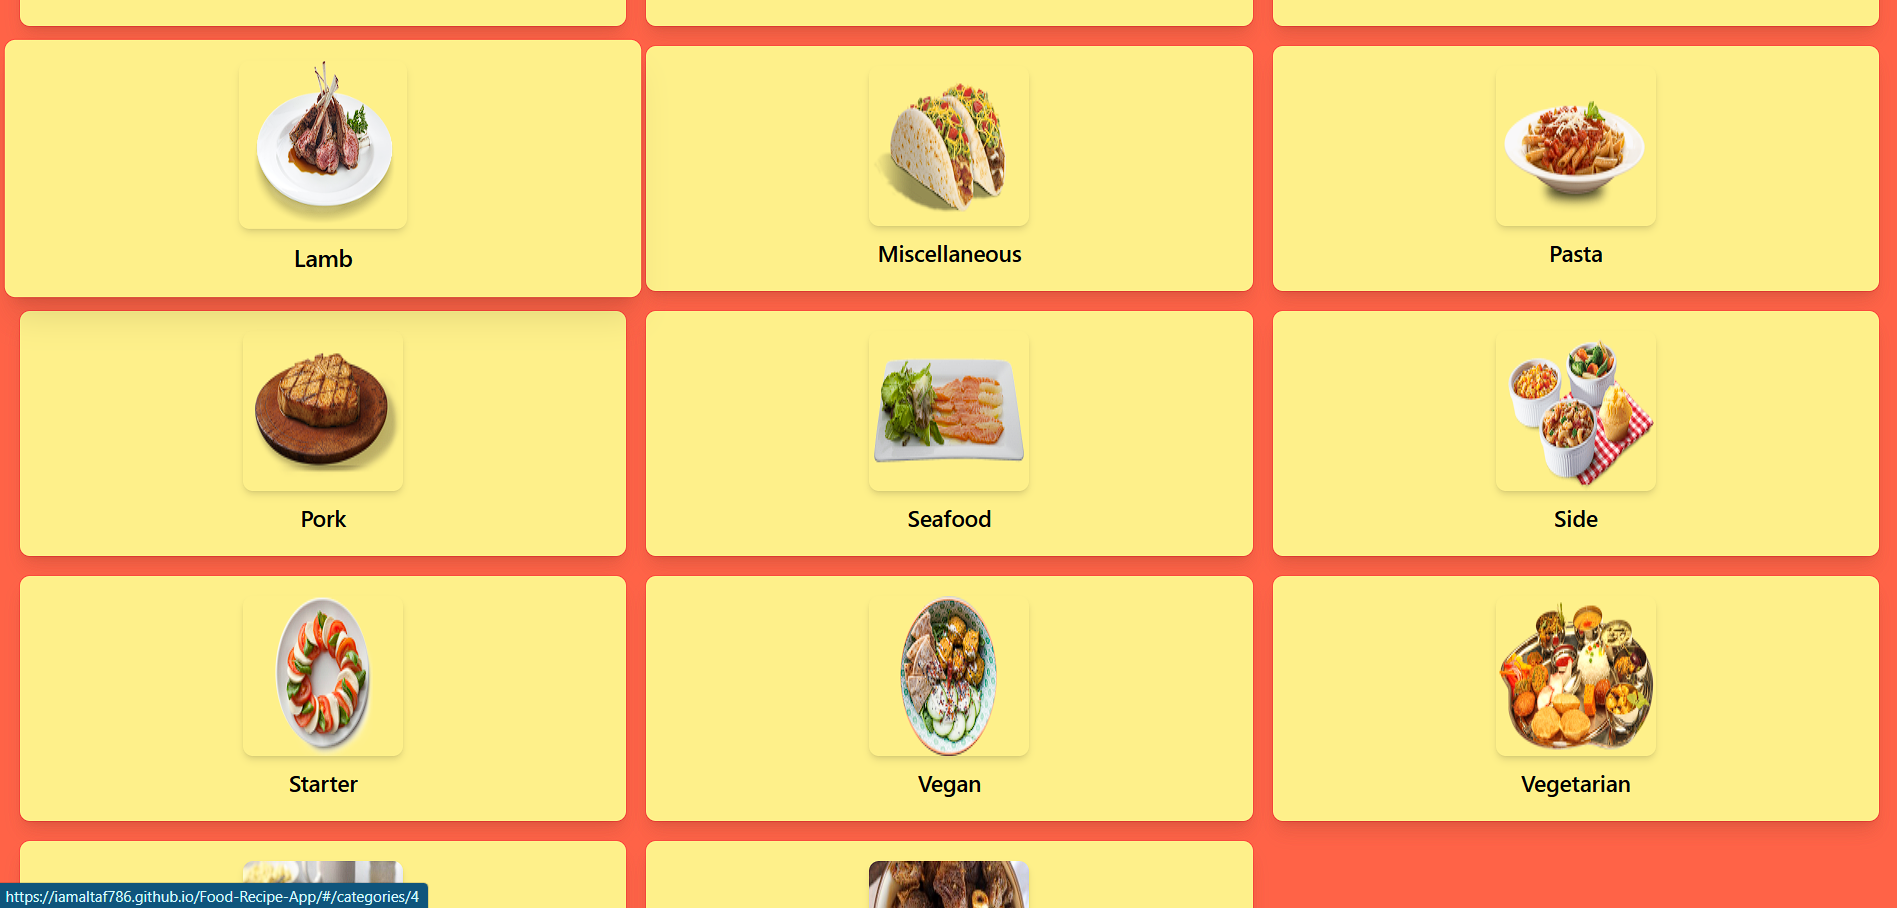
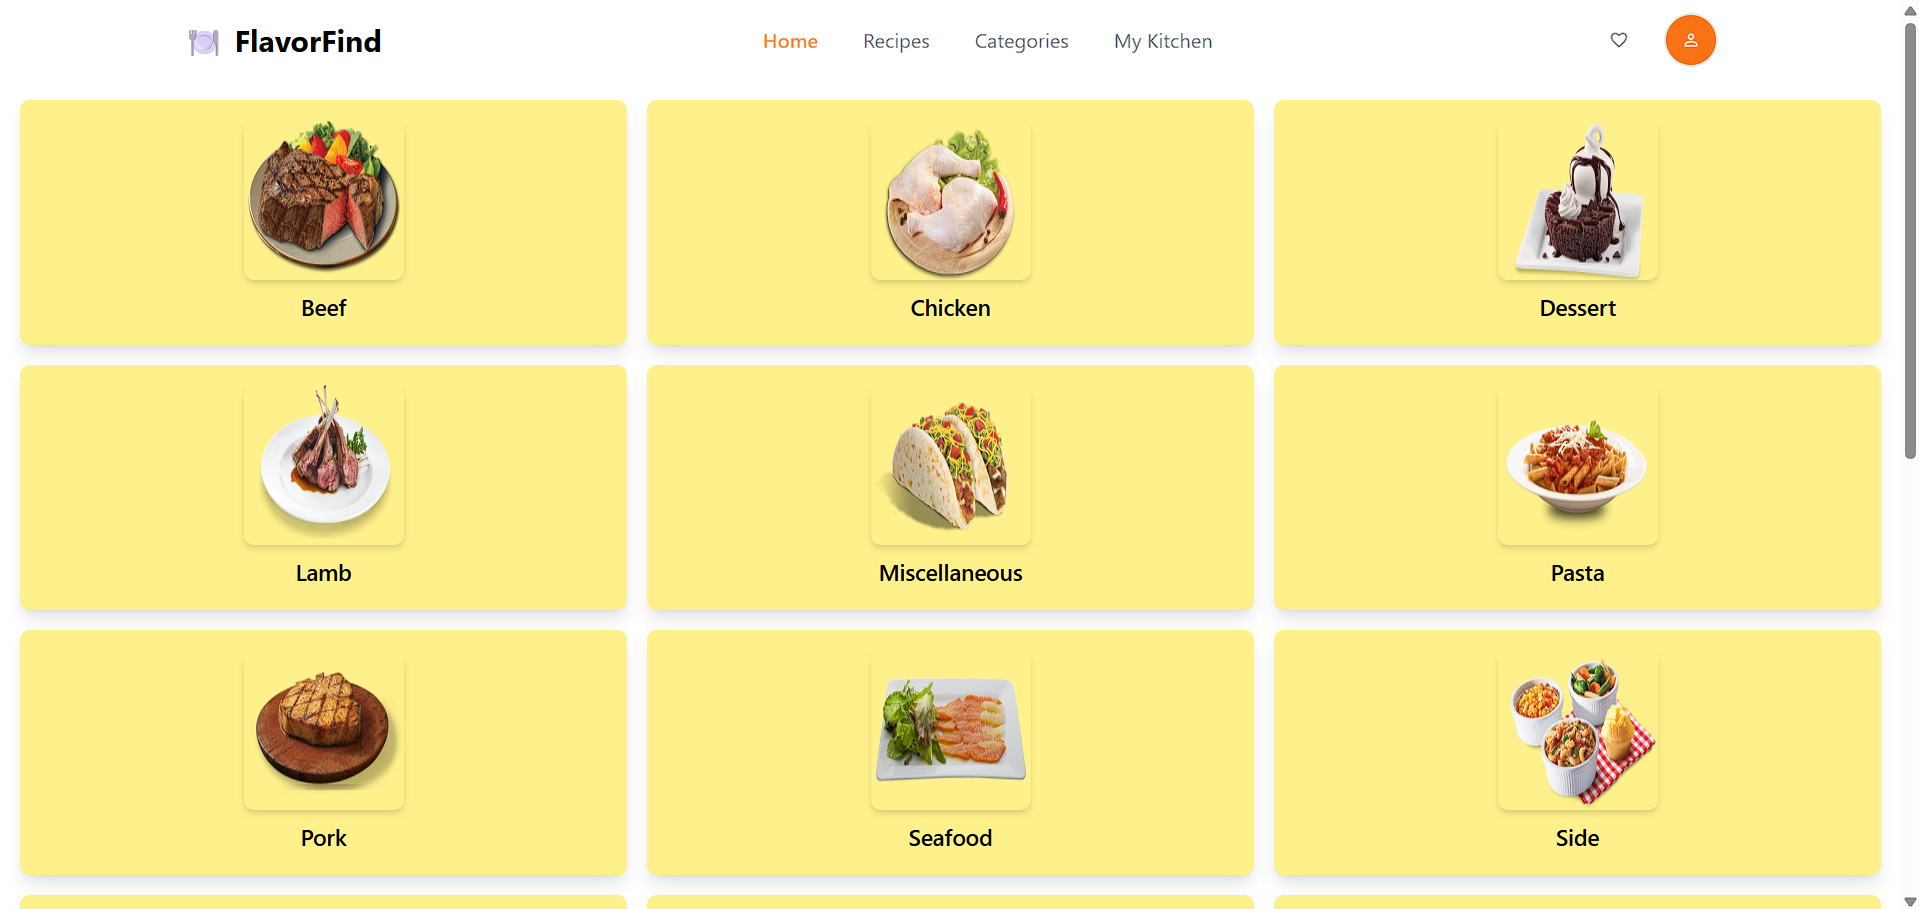
changed ui

diff --git a/src/component/CategoryDetail.jsx b/src/component/CategoryDetail.jsx
@@ -1,0 +1,83 @@
+import React, { useEffect, useState } from "react";
+import { useParams, NavLink } from "react-router-dom";
+
+function CategoryDetail() {
+  const { categoryid } = useParams();
+  const [meals, setMeals] = useState([]);
+  const [categoryName, setCategoryName] = useState("");
+  const [loading, setLoading] = useState(true);
+  const [error, setError] = useState(null);
+
+  useEffect(() => {
+    const fetchCategoryMeals = async () => {
+      try {
+        // Fetch all categories first to get the name of the category from the ID
+        const catRes = await fetch("https://www.themealdb.com/api/json/v1/1/categories.php");
+        const catData = await catRes.json();
+        const matchedCategory = catData.categories.find(
+          (cat) => cat.idCategory === categoryid
+        );
+
+        if (matchedCategory) {
+          setCategoryName(matchedCategory.strCategory);
+
+          // Now fetch meals for that category name
+          const res = await fetch(
+            `https://www.themealdb.com/api/json/v1/1/filter.php?c=${matchedCategory.strCategory}`
+          );
+          const data = await res.json();
+
+          if (data.meals) {
+            setMeals(data.meals);
+          } else {
+            setError("No meals found for this category.");
+          }
+        } else {
+          setError("Invalid category ID.");
+        }
+      } catch (err) {
+        console.error(err);
+        setError("Failed to fetch category details.");
+      } finally {
+        setLoading(false);
+      }
+    };
+
+    fetchCategoryMeals();
+  }, [categoryid]);
+
+  if (loading) return <div className="text-center p-6 text-gray-500">Loading meals...</div>;
+  if (error) return <div className="text-center text-red-500 p-6">{error}</div>;
+
+  return (
+    <div className="p-6">
+      <h2 className="text-2xl font-bold mb-6 text-center text-orange-600">
+        Meals in "{categoryName}" Category
+      </h2>
+      <div className="grid grid-cols-1 sm:grid-cols-2 md:grid-cols-3 gap-6">
+        {meals.map((meal) => (
+          <div
+            key={meal.idMeal}
+            className="bg-white shadow-md rounded-lg overflow-hidden hover:shadow-xl transition duration-300"
+          >
+            <img
+              src={meal.strMealThumb}
+              alt={meal.strMeal}
+              className="w-full h-48 object-cover"
+            />
+            <div className="p-4 text-center">
+              <h3 className="font-semibold text-lg mb-2">{meal.strMeal}</h3>
+              <NavLink to={`/Food-Recipe-App/meal/${meal.idMeal}`}>
+                <button className="bg-orange-500 text-white px-4 py-2 rounded-full hover:bg-orange-600 transition">
+                  View Recipe
+                </button>
+              </NavLink>
+            </div>
+          </div>
+        ))}
+      </div>
+    </div>
+  );
+}
+
+export default CategoryDetail;

diff --git a/src/component/Navbar.jsx b/src/component/Navbar.jsx
@@ -1,31 +1,38 @@
-import React from 'react'
-import { MdFavoriteBorder,MdPersonOutline } from "react-icons/md";
+import React from 'react';
+import { MdFavoriteBorder, MdPersonOutline } from "react-icons/md";
+import { NavLink } from 'react-router-dom';
 
 function Navbar() {
   return (
-    <>
-      <div className='container flex justify-around items-center h-16 bg-white'>
-        <div className='webName-icon flex justify-between align-center'>
-            <div className='text-2xl mr-2'>🍽</div>
-            <h1 className='text-2xl font-bold'>FlavorFind</h1>
-        </div>
+    <div className='container flex justify-around items-center h-16 bg-white'>
+      <div className='webName-icon flex justify-between items-center'>
+        <div className='text-2xl mr-2'>🍽</div>
+        <h1 className='text-2xl font-bold'>FlavorFind</h1>
+      </div>
 
-        <div className='navbars'>
-            <ul className='flex justify-between align-center gap-3 text-gray-500'>
-                <li className='px-3 py-2 hover:cursor-pointer text-orange-400 font-semibold'>Home</li>
-                <li className='px-3 py-2 hover:cursor-pointer'>Recipes</li>
-                <li className='px-3 py-2 hover:cursor-pointer'>Categories</li>
-                <li className='px-3 py-2 hover:cursor-pointer'>My Kitchen</li>
-            </ul>
-        </div>
+      <div className='navbars'>
+        <ul className='flex justify-between items-center gap-3 text-gray-500'>
+          <NavLink to="/Food-Recipe-App/">
+            <li className='px-3 py-2 hover:cursor-pointer text-orange-400 font-semibold'>Home</li>
+          </NavLink>
+          <li className='px-3 py-2 hover:cursor-pointer'>Recipes</li>
+          <NavLink to='/Food-Recipe-App/categories'>
+            <li className='px-3 py-2 hover:cursor-pointer'>Categories</li>
+          </NavLink>
+          <li className='px-3 py-2 hover:cursor-pointer'>My Kitchen</li>
+        </ul>
+      </div>
 
-        <div className='fav-profile flex justify-between align-center'>
-            <div className='p-3 rounded-xl mr-4 hover:bg-green-500'><MdFavoriteBorder color='gray'/></div>
-            <div className='p-3 border-2 rounded-full bg-orange-500 '><MdPersonOutline color='white'/></div>
+      <div className='fav-profile flex justify-between items-center'>
+        <div className='p-3 rounded-xl mr-4 hover:bg-green-500'>
+          <MdFavoriteBorder color='gray' />
+        </div>
+        <div className='p-3 border-2 rounded-full bg-orange-500'>
+          <MdPersonOutline color='white' />
         </div>
       </div>
-    </>
-  )
+    </div>
+  );
 }
 
-export default Navbar
+export default Navbar;

diff --git a/src/App.jsx b/src/App.jsx
@@ -1,13 +1,12 @@
 import "./App.css";
-import MainPage from "./component/MainPage";
 import { BrowserRouter as Router, Route, Routes } from "react-router-dom";
 import MealInfo from "./component/Mealinfo";
 import CategoryList from "./component/CategoryList";
 import ErrorPage from "./component/ErrorPage";
 import Navbar from "./component/Navbar";
 import Footer from "./component/Footer";
-import FoodCart from "./component/FoodCart";
 import HeroSection from "./component/HeroSection";
+import CategoryDetail from "./component/CategoryDetail";
 
 function App() {
   return (
@@ -18,12 +17,11 @@ function App() {
         {/* Main content that changes based on route */}
         <div className="flex-grow">
           <Routes>
-            {/* <Route path="/Food-Recipe-App/" element={<FoodCart />} /> */}
             <Route path="/Food-Recipe-App/" element={<HeroSection />} />
-            {/* <Route path="/home" element={<MainPage />} /> */}
-            {/* <Route path="/meal/:mealid" element={<MealInfo />} /> */}
-            {/* <Route path="/categories" element={<CategoryList />} /> */}
-            {/* <Route path="/categories/:categoryid" element={<CategoryDetail />} /> */}
+            <Route path="/home" element={<HeroSection />} />
+            <Route path="/Food-Recipe-App/meal/:mealid" element={<MealInfo />} />
+            <Route path="/Food-Recipe-App/categories" element={<CategoryList />} />
+            <Route path="/Food-Recipe-App/categories/:categoryid" element={<CategoryDetail />} />
             <Route path="*" element={<ErrorPage />} />
           </Routes>
         </div>

diff --git a/src/component/MealCards.jsx b/src/component/MealCards.jsx
@@ -2,7 +2,6 @@ import React from "react";
 import { NavLink } from "react-router-dom";
 
 function MealCards({ detail }) {
-  // console.log("MealCard rendered");
   return (
     <div className="flex flex-wrap gap-5 justify-center w-11/12 mx-auto mt-11">
       {detail && detail.length > 0 ? (
@@ -17,7 +16,7 @@ function MealCards({ detail }) {
               className="w-full h-64 rounded-t-lg"
             />
             <p className="font-semibold mt-4 mb-4">{curItem.strMeal}</p>
-            <NavLink to={`/${curItem.idMeal}`}>
+            <NavLink to={`/Food-Recipe-App/meal/${curItem.idMeal}`}>
               <button className="w-40 bg-customOrange text-white text-lg border-none rounded-full py-2 cursor-pointer transition duration-300 ease-in-out transform hover:scale-105 hover:bg-orange-600">
                 Recipe
               </button>

diff --git a/src/component/CategoryList.jsx b/src/component/CategoryList.jsx
@@ -43,7 +43,7 @@ function CategoryList() {
     <div className="grid grid-cols-3 gap-4 p-4">
       {categories.map((category) => (
         <Link
-          to={`/categories/${category.idCategory}`} // Adjust the route as necessary
+          to={`/Food-Recipe-App/categories/${category.idCategory}`} // Adjust the route as necessary
           key={category.idCategory}
           className="flex flex-col items-center bg-yellow-200 p-4 rounded-lg shadow-lg transition-all duration-300 ease-in-out hover:scale-105 hover:shadow-xl" // Added hover effects on the card
         >

diff --git a/src/component/FoodCart.jsx b/src/component/FoodCart.jsx
@@ -1,5 +1,4 @@
 import React from "react";
-import MainPage from "./MainPage";
 
 function FoodCart() {
   return (
@@ -22,16 +21,9 @@ function FoodCart() {
             <img className="rounded-2xl shadow-customRed transition duration-300 ease-in-out transform hover:scale-105 hover:shadow-lg" src="src\assets\fish-1.jpg" alt="fish-4" />
           </div>
         </div>
-        {/* <MainPage /> */}
       </div>
     </>
   );
 }
 
 export default FoodCart;
-
-/* 
-navbar
-food cart
-
-*/

diff --git a/src/component/Footer.jsx b/src/component/Footer.jsx
@@ -4,6 +4,7 @@ function Footer() {
   return (
     <footer className="bg-gray-900 text-white py-10 mt-10">
       <div className="max-w-6xl mx-auto px-4 grid grid-cols-1 md:grid-cols-4 gap-8">
+        
         {/* Logo */}
         <div>
           <div className="text-2xl font-semibold mb-4">🍽 FoodieFlavor</div>

diff --git a/src/component/HeroSection.jsx b/src/component/HeroSection.jsx
@@ -31,8 +31,6 @@ function HeroSection() {
         clearTimeout(loadingTimer); // Clear timer
         setData(data.meals); // Set fetched data
         setLoading(false); // Hide loading once data is ready
-      
-        console.log(data.meals);
       } catch {
         console.error("Error fetching data");
         

diff --git a/src/component/Mealinfo.jsx b/src/component/Mealinfo.jsx
@@ -19,7 +19,6 @@ function MealInfo() {
     };
     getInfo();
   }, [mealid]); // Dependency array with mealid
-  // console.log("MealInfo rendered");
   return (
     <>
       {!info ? (

diff --git a/src/component/ErrorPage.jsx b/src/component/ErrorPage.jsx
@@ -1,4 +1,3 @@
-// ErrorPage.jsx
 import React from "react";
 
 const ErrorPage = () => {
